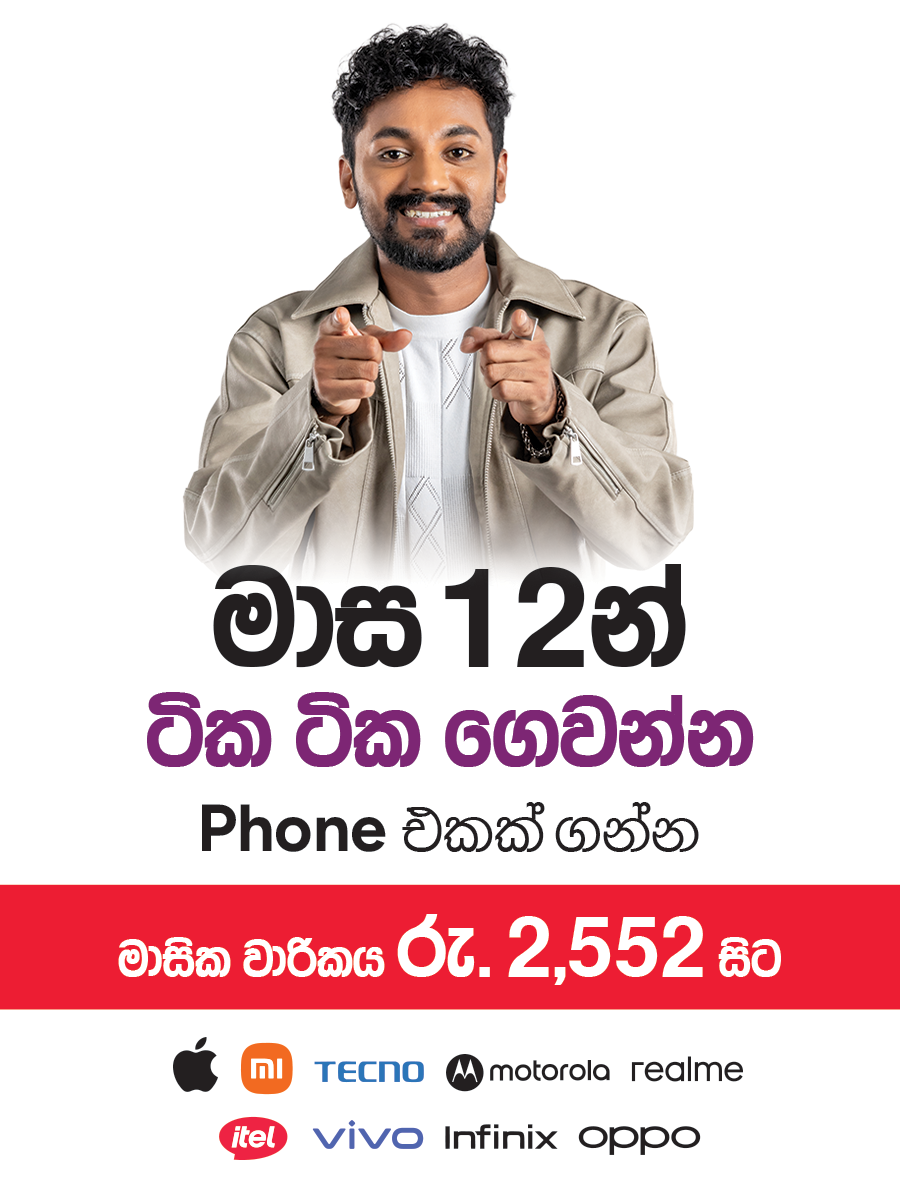
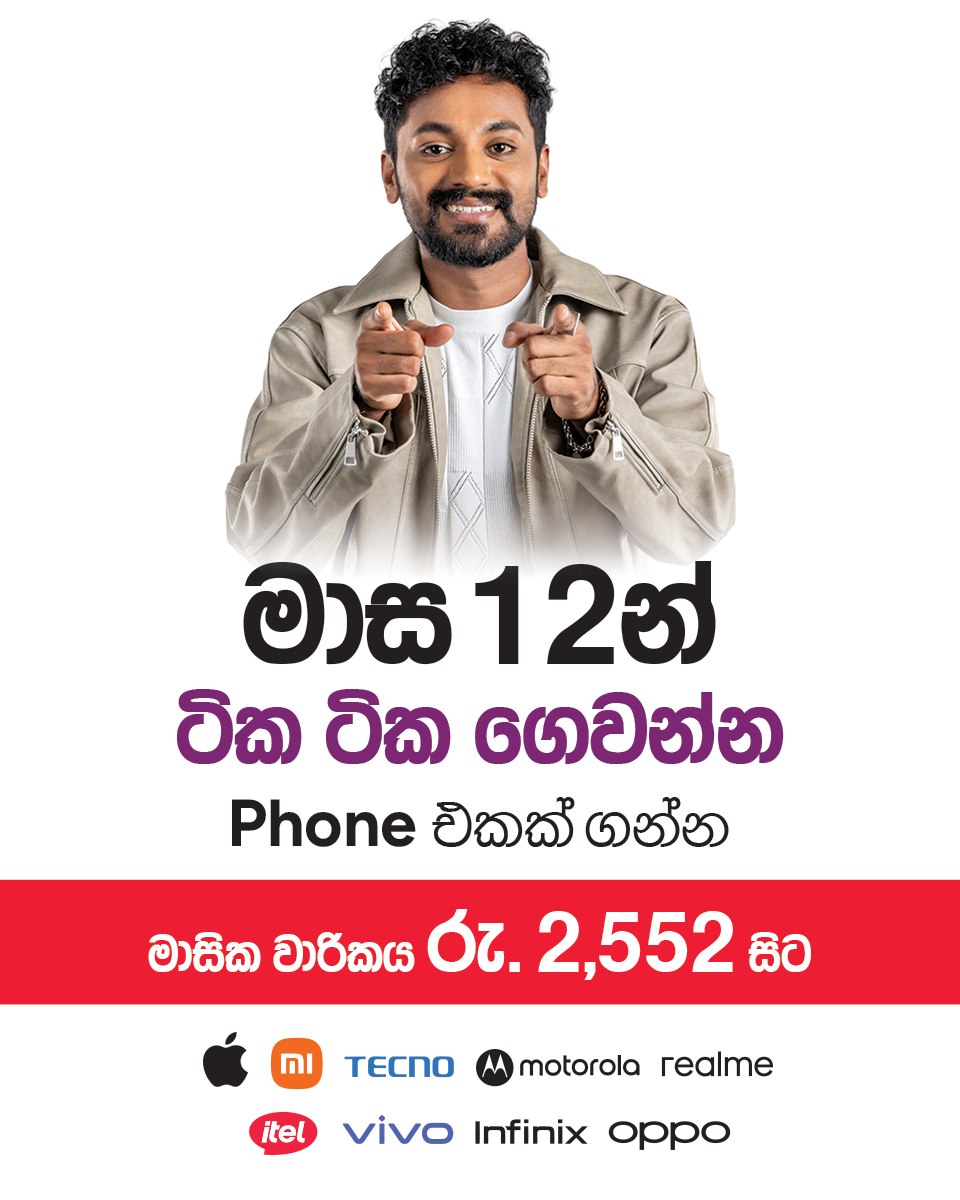
Swap the artwork for the first two hero slides
The second slide's new artwork is realme 15 Pro rather than the OPPO
Reno15 it replaces, so its id, indicator label, alt copy and brand link
move over to realme too.

Changed region(s): [[0.0, 0.0, 1.0, 0.9867]]

diff --git a/lib/data/banners.ts b/lib/data/banners.ts
@@ -1,9 +1,9 @@
 import type { HeroSlide, Offer } from "@/lib/types";
 
-import hero1 from "@/public/images/hero/herosection1.png";
+import hero1 from "@/public/images/hero/hero-section-2B.png";
 import hero1m from "@/public/images/hero/hero-section-Mobile.png";
-import hero2 from "@/public/images/hero/hero2.png";
-import hero2m from "@/public/images/hero/hero2m.png";
+import hero2 from "@/public/images/hero/hero-section-3B.png";
+import hero2m from "@/public/images/hero/hero-section-Mobile-2.png";
 import hero3 from "@/public/images/hero/hero3.png";
 import hero3m from "@/public/images/hero/hero3m.png";
 import hero4 from "@/public/images/hero/hero4.png";
@@ -27,12 +27,12 @@ export const heroSlides: HeroSlide[] = [
     indicatorLabel: "12-Month Instalments",
   },
   {
-    id: "oppo-reno15",
-    alt: "OPPO Reno15 Series. Own the aura. Reno15 and Reno15F, now at Abans.",
+    id: "realme-15-pro",
+    alt: "realme 15 Pro 5G. Live real in every shot — triple 50MP AI cameras, Snapdragon 7 Gen 4 and a 7000mAh battery with 80W SUPERVOOC charging.",
     desktop: hero2,
     mobile: hero2m,
-    href: "/products?brand=oppo",
-    indicatorLabel: "OPPO Reno15 Series",
+    href: "/products?brand=realme",
+    indicatorLabel: "realme 15 Pro",
   },
   {
     id: "redmi-15c",
